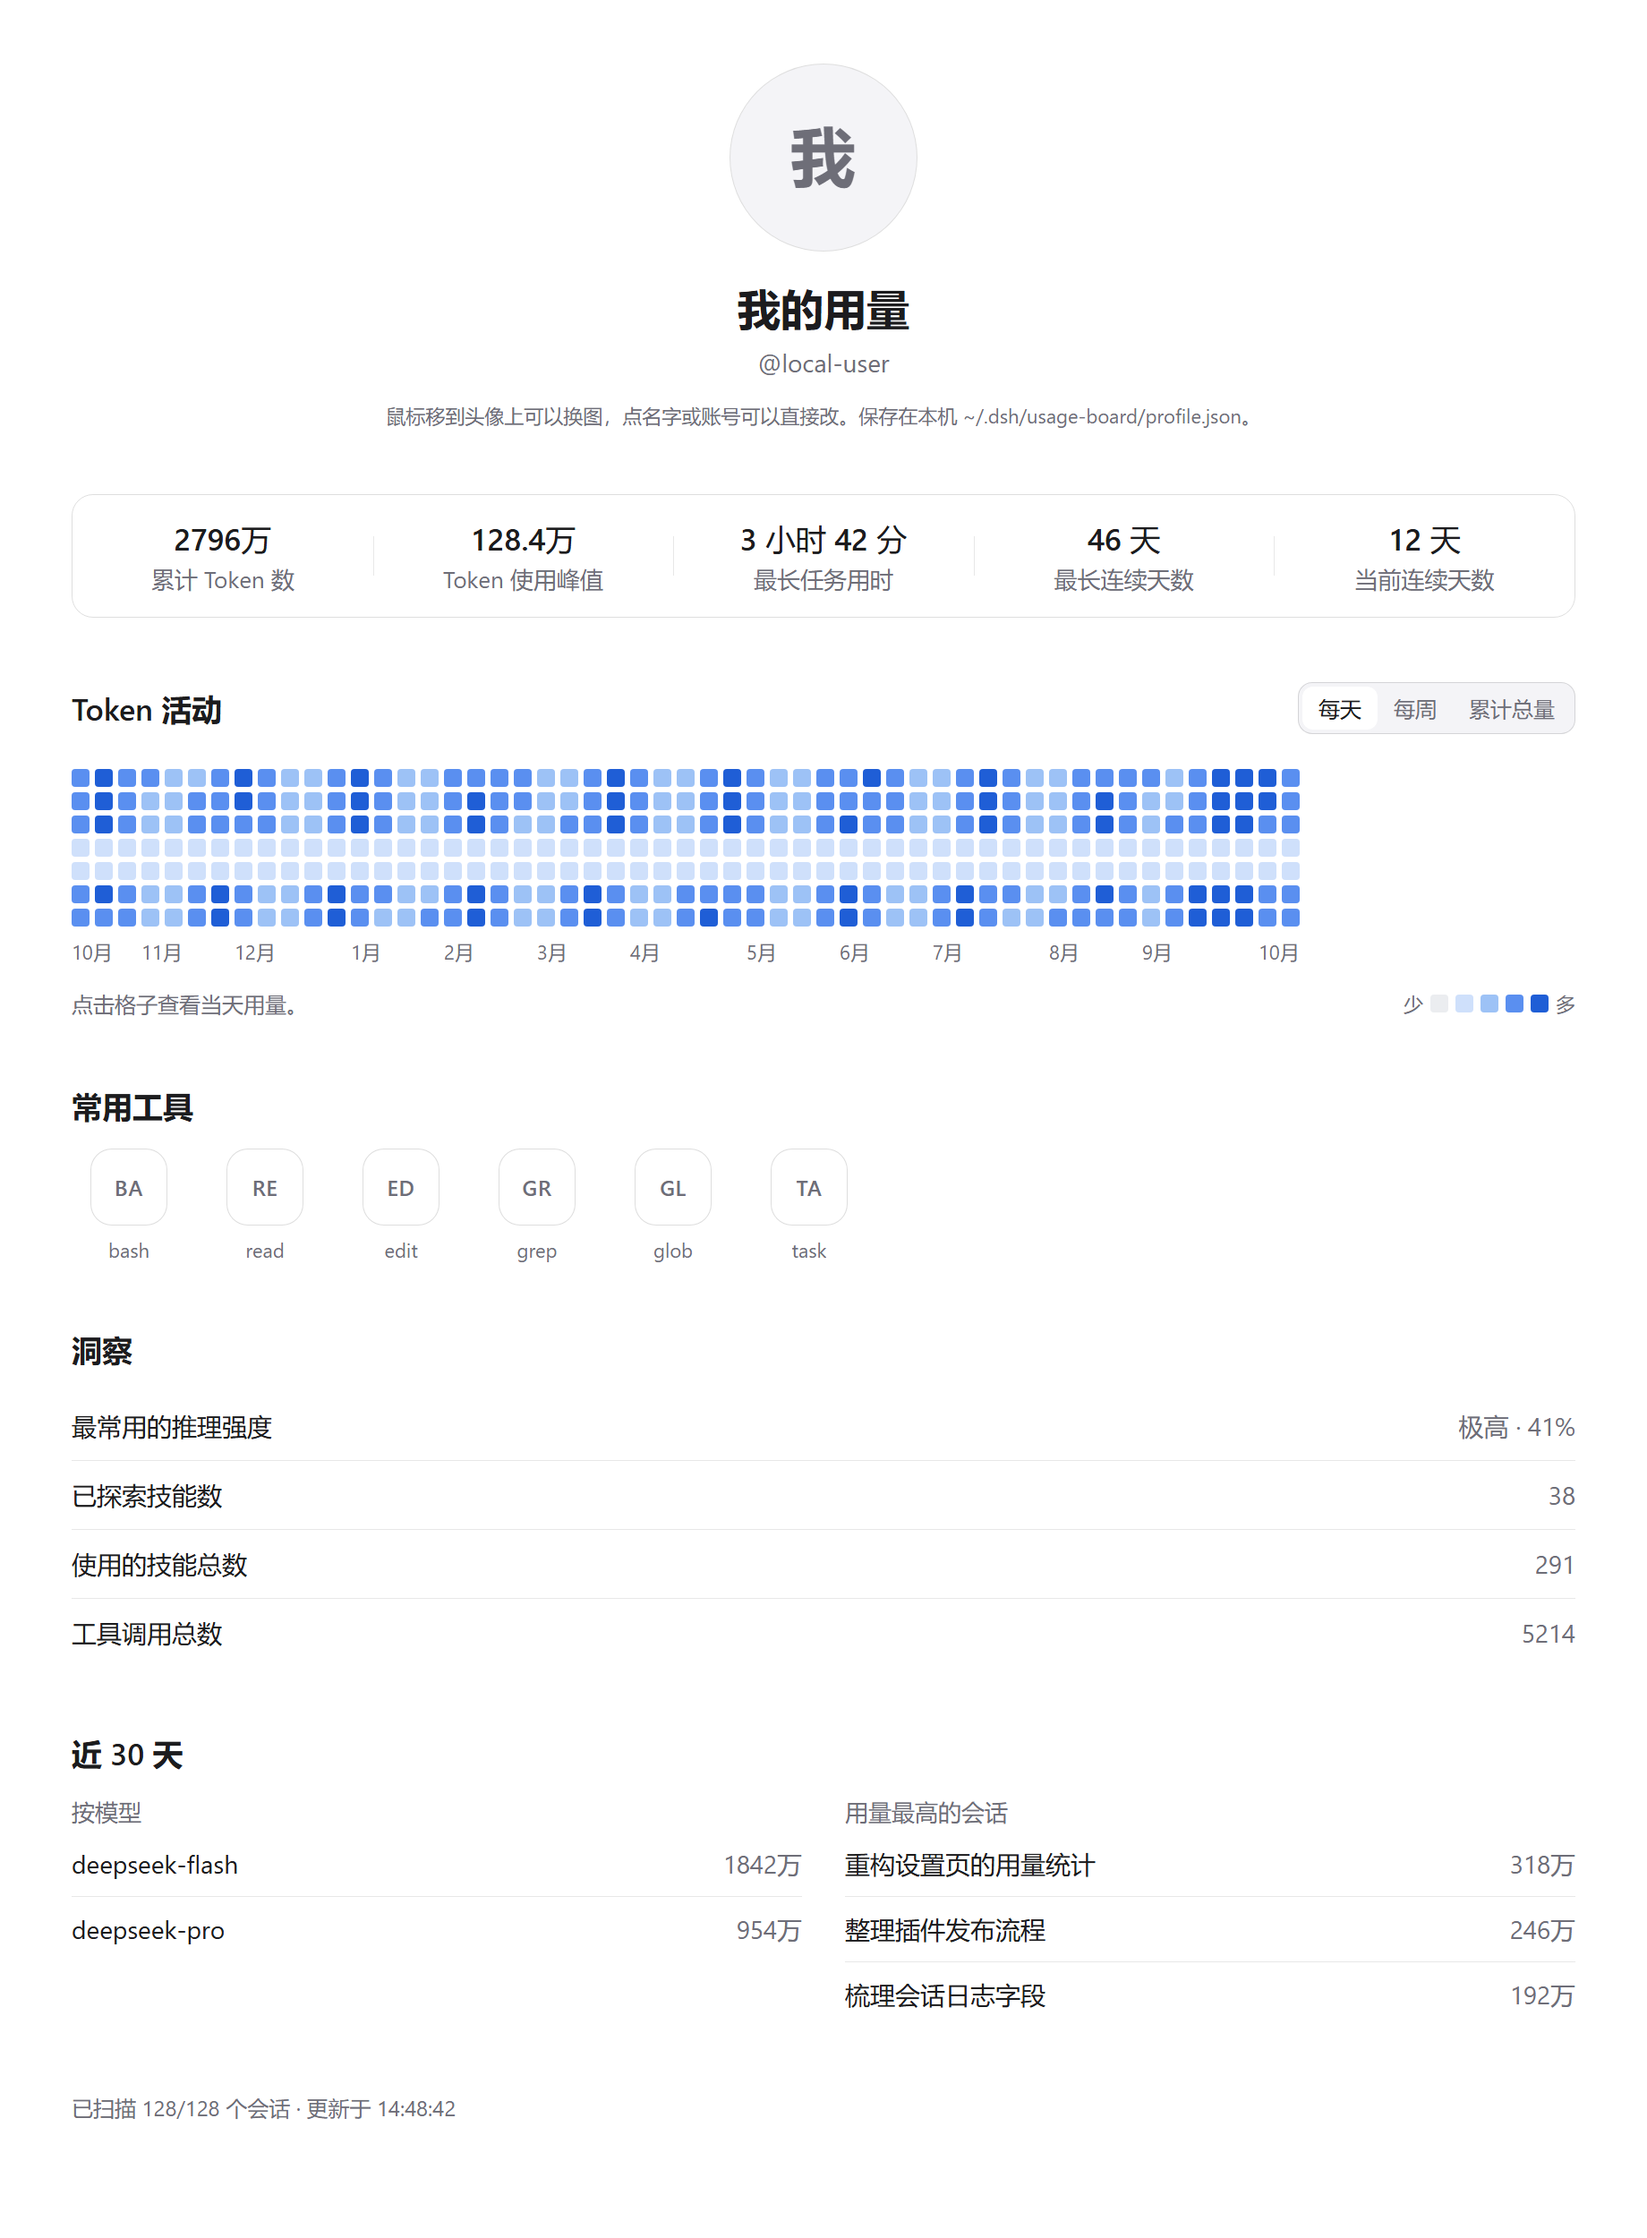
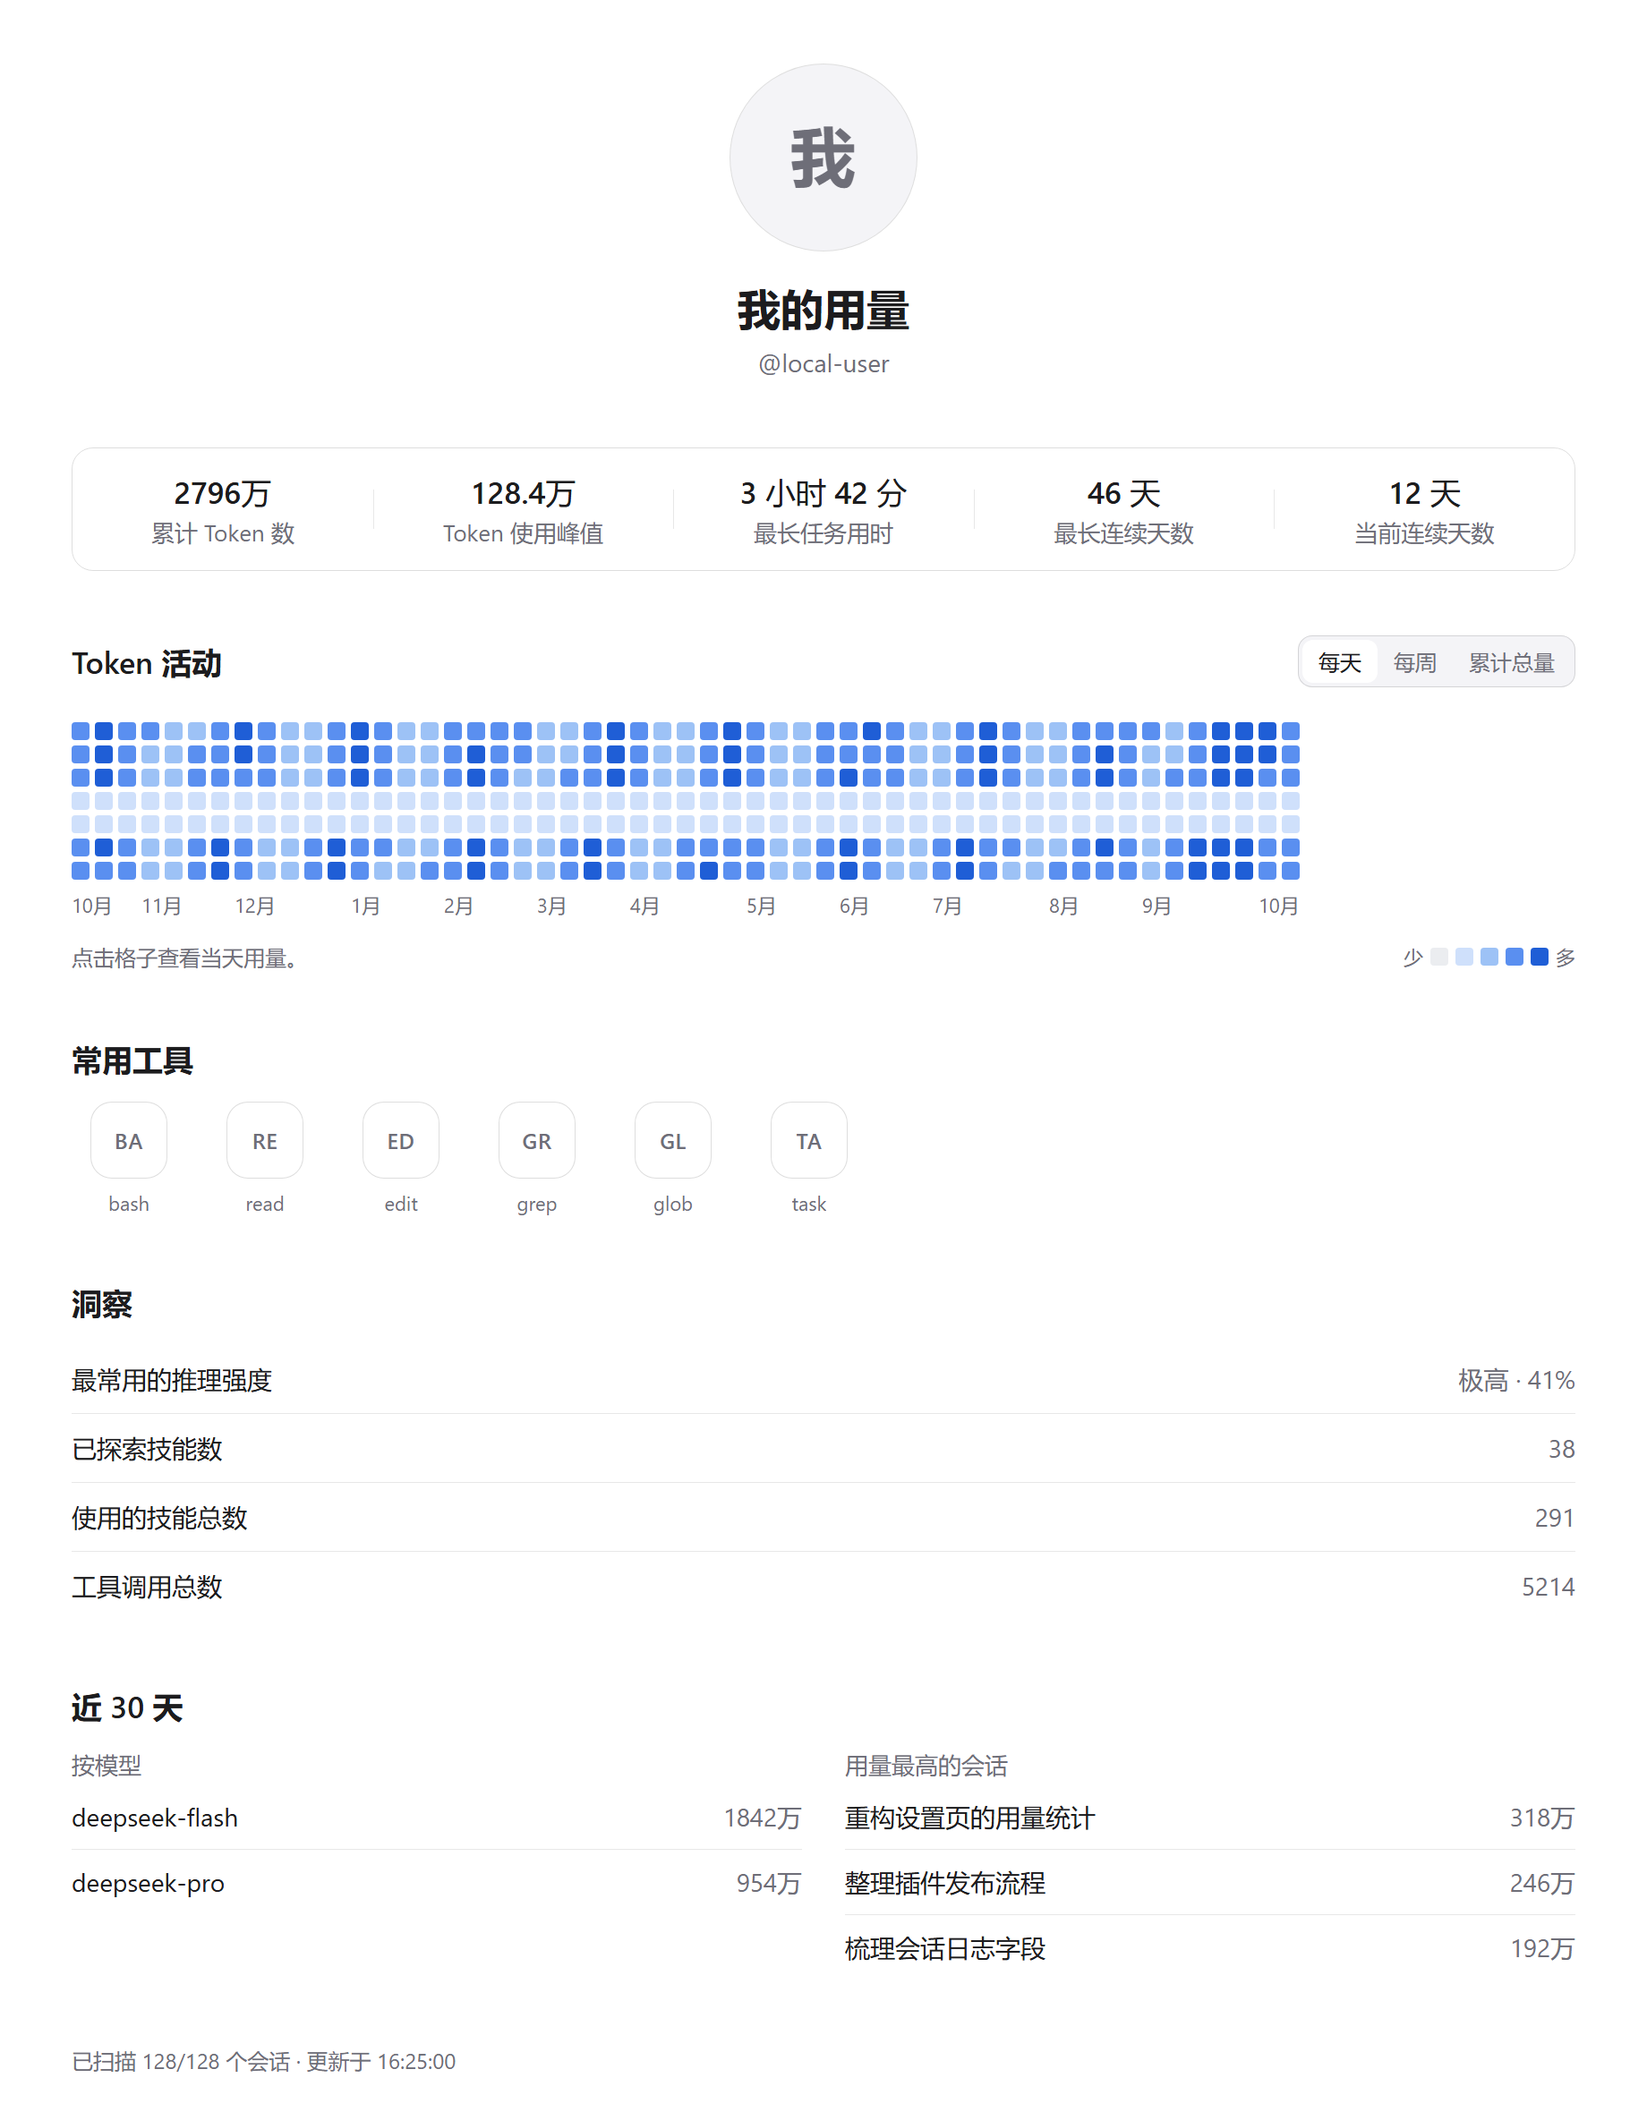
Explain the inline editing once, then get out of the way
The permanent caption under the handle is gone. A tip under the header
appears on the first visit only, closes on 'Got it' or Escape, and records
itself in localStorage, so the page is clean from then on.

diff --git a/client.js b/client.js
@@ -68,6 +68,27 @@ window.__ModuleLoader__.load({
       return { ...DEFAULT_PROFILE };
     }
 
+    /** Browser flag that records the first-visit tip as already read. */
+    const TIP_KEY = `${NS}.tipSeen`;
+
+    /** @returns {boolean} whether the first-visit tip was dismissed in this browser. */
+    function tipSeen() {
+      try {
+        return window.localStorage.getItem(TIP_KEY) === '1';
+      } catch {
+        return false;
+      }
+    }
+
+    /** @returns {void} */
+    function rememberTip() {
+      try {
+        window.localStorage.setItem(TIP_KEY, '1');
+      } catch {
+        /* without storage the tip simply replays next visit */
+      }
+    }
+
     const en = {
       nav: 'Usage',
       refresh: 'Refresh',
@@ -124,8 +145,8 @@ window.__ModuleLoader__.load({
       changeAvatar: 'Change portrait',
       avatarType: 'Choose a PNG, JPEG, WebP, GIF or SVG image.',
       avatarTooLarge: 'Image must be 256 KB or smaller.',
-      profileHint: 'Hover the portrait to change it; click the name or handle to edit. Saved on this machine at ~/.dsh/usage-board/profile.json.',
-      profileHintLocal: 'Hover the portrait to change it; click the name or handle to edit. Kept in this browser.',
+      tipText: 'Click the portrait to change it, or the name and handle to edit them.',
+      tipOk: 'Got it',
       profileNamePlaceholder: 'Your name',
       profileHandlePlaceholder: '@handle',
       profileFailed: 'Could not save: {message}',
@@ -187,8 +208,8 @@ window.__ModuleLoader__.load({
       changeAvatar: '更换头像',
       avatarType: '请选择 PNG、JPEG、WebP、GIF 或 SVG 图片。',
       avatarTooLarge: '图片不能超过 256 KB。',
-      profileHint: '鼠标移到头像上可以换图，点名字或账号可以直接改。保存在本机 ~/.dsh/usage-board/profile.json。',
-      profileHintLocal: '鼠标移到头像上可以换图，点名字或账号可以直接改。只保存在这个浏览器。',
+      tipText: '点头像可以换图，点名字或账号可以直接改。',
+      tipOk: '知道了',
       profileNamePlaceholder: '你的名字',
       profileHandlePlaceholder: '@账号',
       profileFailed: '保存失败：{message}',
@@ -218,7 +239,10 @@ window.__ModuleLoader__.load({
       '.dshUsage-lineInput:focus{border-color:var(--dsw-alias-brand-primary);box-shadow:0 0 0 3px rgba(59,110,240,.16);background:var(--dsw-alias-bg-layer-1)}',
       '.dshUsage-file{display:none}',
       '.dshUsage-profileError{font-size:12px;line-height:18px;color:var(--dsw-alias-state-error-primary);margin-top:8px}',
-      '.dshUsage-hint{font-size:11px;line-height:16px;color:var(--dsw-alias-label-secondary);margin-top:10px}',
+      '.dshUsage-tip{display:flex;align-items:center;gap:12px;margin-top:14px;max-width:420px;padding:10px 12px;border-radius:10px;background:var(--dsw-alias-bg-layer-1);border:.5px solid var(--dsw-alias-border-l1);box-shadow:0 8px 24px rgba(0,0,0,.12);text-align:left;animation:dshUsageTipIn .18s ease-out}',
+      '.dshUsage-tipText{font-size:13px;line-height:20px;min-width:0}',
+      '.dshUsage-tipBtn{appearance:none;font:inherit;font-size:12px;line-height:18px;height:26px;padding:0 10px;border-radius:7px;border:0;background:var(--dsw-alias-brand-primary);color:#fff;cursor:pointer;flex:none}',
+      '@keyframes dshUsageTipIn{from{opacity:0;transform:translateY(-4px)}to{opacity:1;transform:none}}',
       '.dshUsage-stats{display:grid;grid-template-columns:repeat(5,minmax(0,1fr));border:.5px solid var(--dsw-alias-border-l1);border-radius:12px;overflow:hidden}',
       '.dshUsage-stat{position:relative;padding:12px 8px;text-align:center;min-width:0}',
       '.dshUsage-stat + .dshUsage-stat::before{content:"";position:absolute;left:0;top:50%;transform:translateY(-50%);height:22px;border-left:.5px solid var(--dsw-alias-border-l2)}',
@@ -494,10 +518,11 @@ window.__ModuleLoader__.load({
      * Nothing about the reader is baked into this bundle: the saved profile
      * arrives with the report, and every edit posts the whole profile back.
      * Hovering the portrait reveals a camera mark; hovering the name or handle
-     * reveals the gray field it opens into on click. With no portrait the
-     * header falls back to a monogram, and with no name it shows a neutral
-     * localized label, so a fresh install never looks like someone else's
-     * account.
+     * reveals the gray field it opens into on click. A one-time tip under the
+     * header says so on the first visit and never comes back, so the page is
+     * not permanently captioned. With no portrait the header falls back to a
+     * monogram, and with no name it shows a neutral localized label, so a fresh
+     * install never looks like someone else's account.
      * @param {{ profile?: object, t: Function, onSaved?: Function }} props - saved profile, translator, save callback.
      * @returns {React.ReactElement} the header.
      */
@@ -508,7 +533,25 @@ window.__ModuleLoader__.load({
       const handle = typeof profile.handle === 'string' ? profile.handle : '';
       const avatar = typeof profile.avatar === 'string' ? profile.avatar : '';
       const [error, setError] = useState('');
+      const [tip, setTip] = useState(() => !tipSeen());
       const fileRef = useRef(null);
+
+      /** Close the first-visit tip and remember that it was read. */
+      const dismissTip = () => {
+        setTip(false);
+        rememberTip();
+      };
+
+      useEffect(() => {
+        if (!tip) return undefined;
+        const onKey = (event) => {
+          if (event.key !== 'Escape') return;
+          setTip(false);
+          rememberTip();
+        };
+        window.addEventListener('keydown', onKey);
+        return () => window.removeEventListener('keydown', onKey);
+      }, [tip]);
 
       /**
        * Persist one whole profile: the Host replaces its file, while a
@@ -568,7 +611,6 @@ window.__ModuleLoader__.load({
 
       const shownName = name.length > 0 ? name : t('profileDefaultName');
       const monogram = Array.from(shownName)[0] ?? '·';
-      const hintKey = PROFILE_STORE.local === undefined ? 'profileHint' : 'profileHintLocal';
 
       return h('div', { className: 'dshUsage-profile' },
         h('div', { className: 'dshUsage-avatarField' },
@@ -603,7 +645,11 @@ window.__ModuleLoader__.load({
           onCommit: (value) => { void commit({ name, handle: value, avatar: avatar === '' ? null : avatar }); },
         }),
         error.length > 0 ? h('div', { className: 'dshUsage-profileError' }, error) : null,
-        h('div', { className: 'dshUsage-hint' }, t(hintKey)));
+        tip
+          ? h('div', { className: 'dshUsage-tip', role: 'note' },
+            h('div', { className: 'dshUsage-tipText' }, t('tipText')),
+            h('button', { type: 'button', className: 'dshUsage-tipBtn', onClick: dismissTip }, t('tipOk')))
+          : null);
     }
 
     /**

diff --git a/README.md b/README.md
@@ -52,16 +52,15 @@ Token 活动                                  [每天][每周][累计总量]
 
 ## 自定义名字、账号、头像
 
-看板不绑定任何人，改资料不用进设置、也不用找按钮：
+看板不绑定任何人，改资料不用进设置、也不用找按钮。第一次打开页面时，名字下面会弹出一次提示，点「知道了」或按 Esc 关掉后就不再出现：
 
-![鼠标移上来说明显字段](docs/preview-edit.png)
+![首次打开的提示](docs/preview-tip.png)
 
 - **头像**：鼠标移上去，头像右下角浮出相机图标，点它选图即可换（PNG / JPEG / WebP / GIF / SVG，≤ 256 KB）。
 - **名字 / 账号**：鼠标移上去，文字下面会出现一块灰色输入框的样子，光标变成文本编辑竖线；点一下就地变成输入框，回车或点别处保存，Esc 取消。
 - **留空**：名字清空后显示「我的用量」，头像清空后回到首字圆形标记。
 - **保存位置**：`~/.dsh/usage-board/profile.json`（或 `$DSH_HOME/usage-board/profile.json`）。删掉这个文件就恢复默认。
-
-> 页面底部那行小字也提醒了这两处可以点，避免只有知道的人才会用。
+- **不想再看到提示**：提示只弹一次，记录在浏览器 `localStorage` 里；清掉它就会再弹。
 
 ## 每个数字从哪来
 
